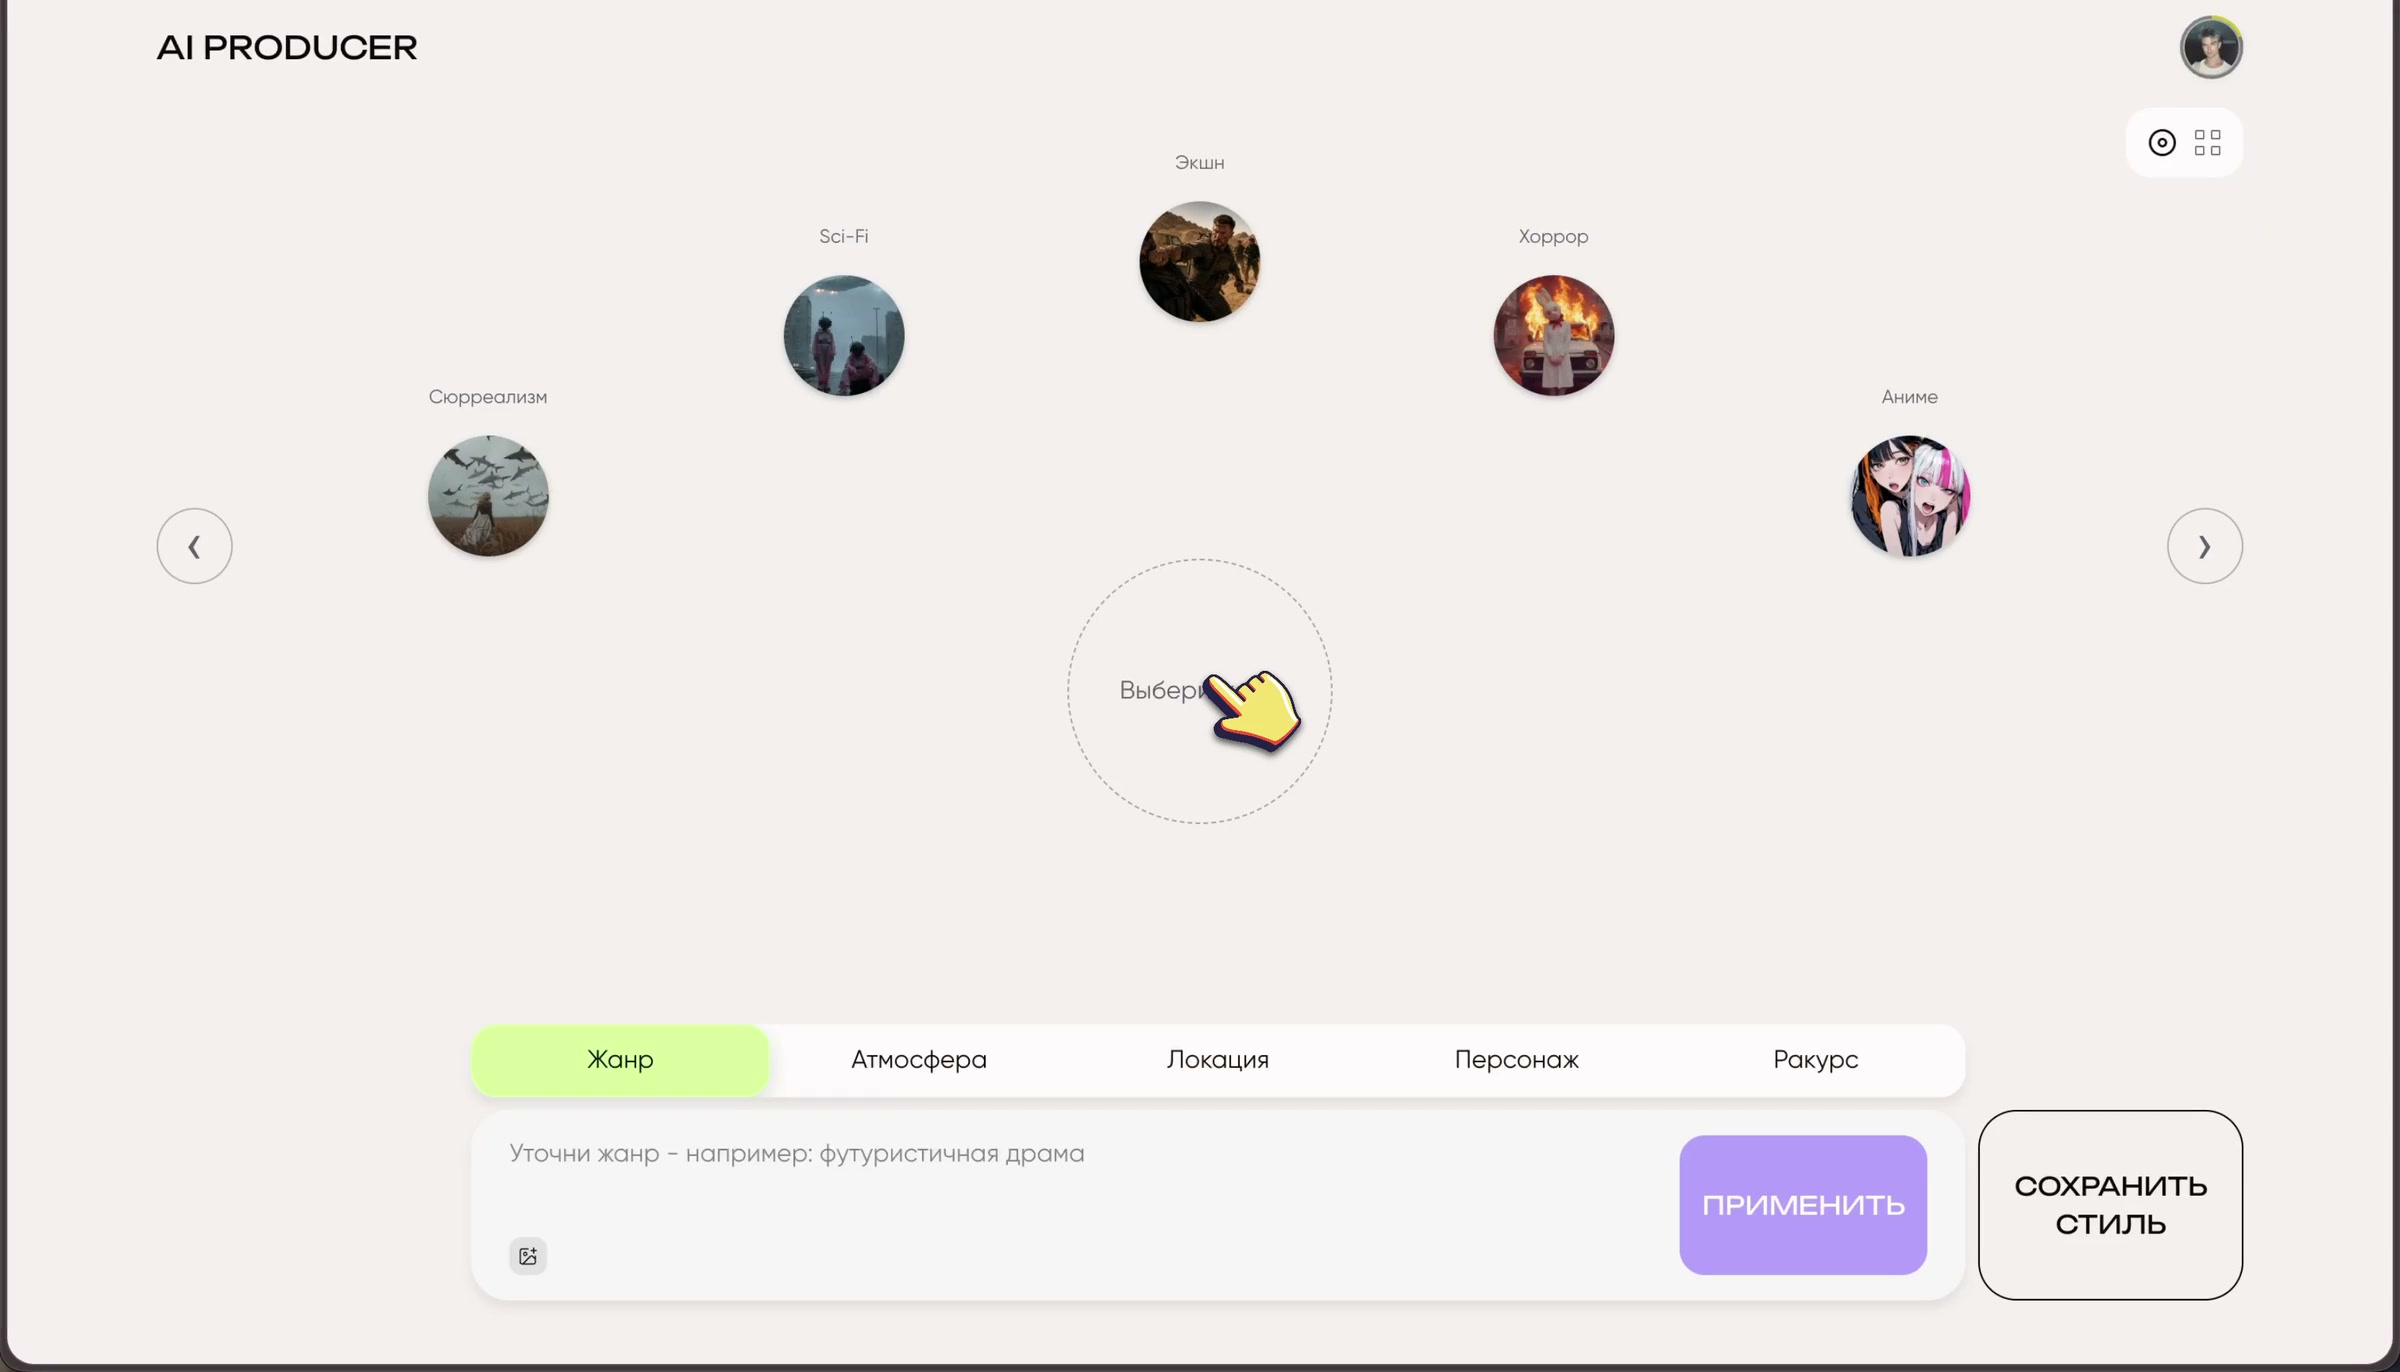
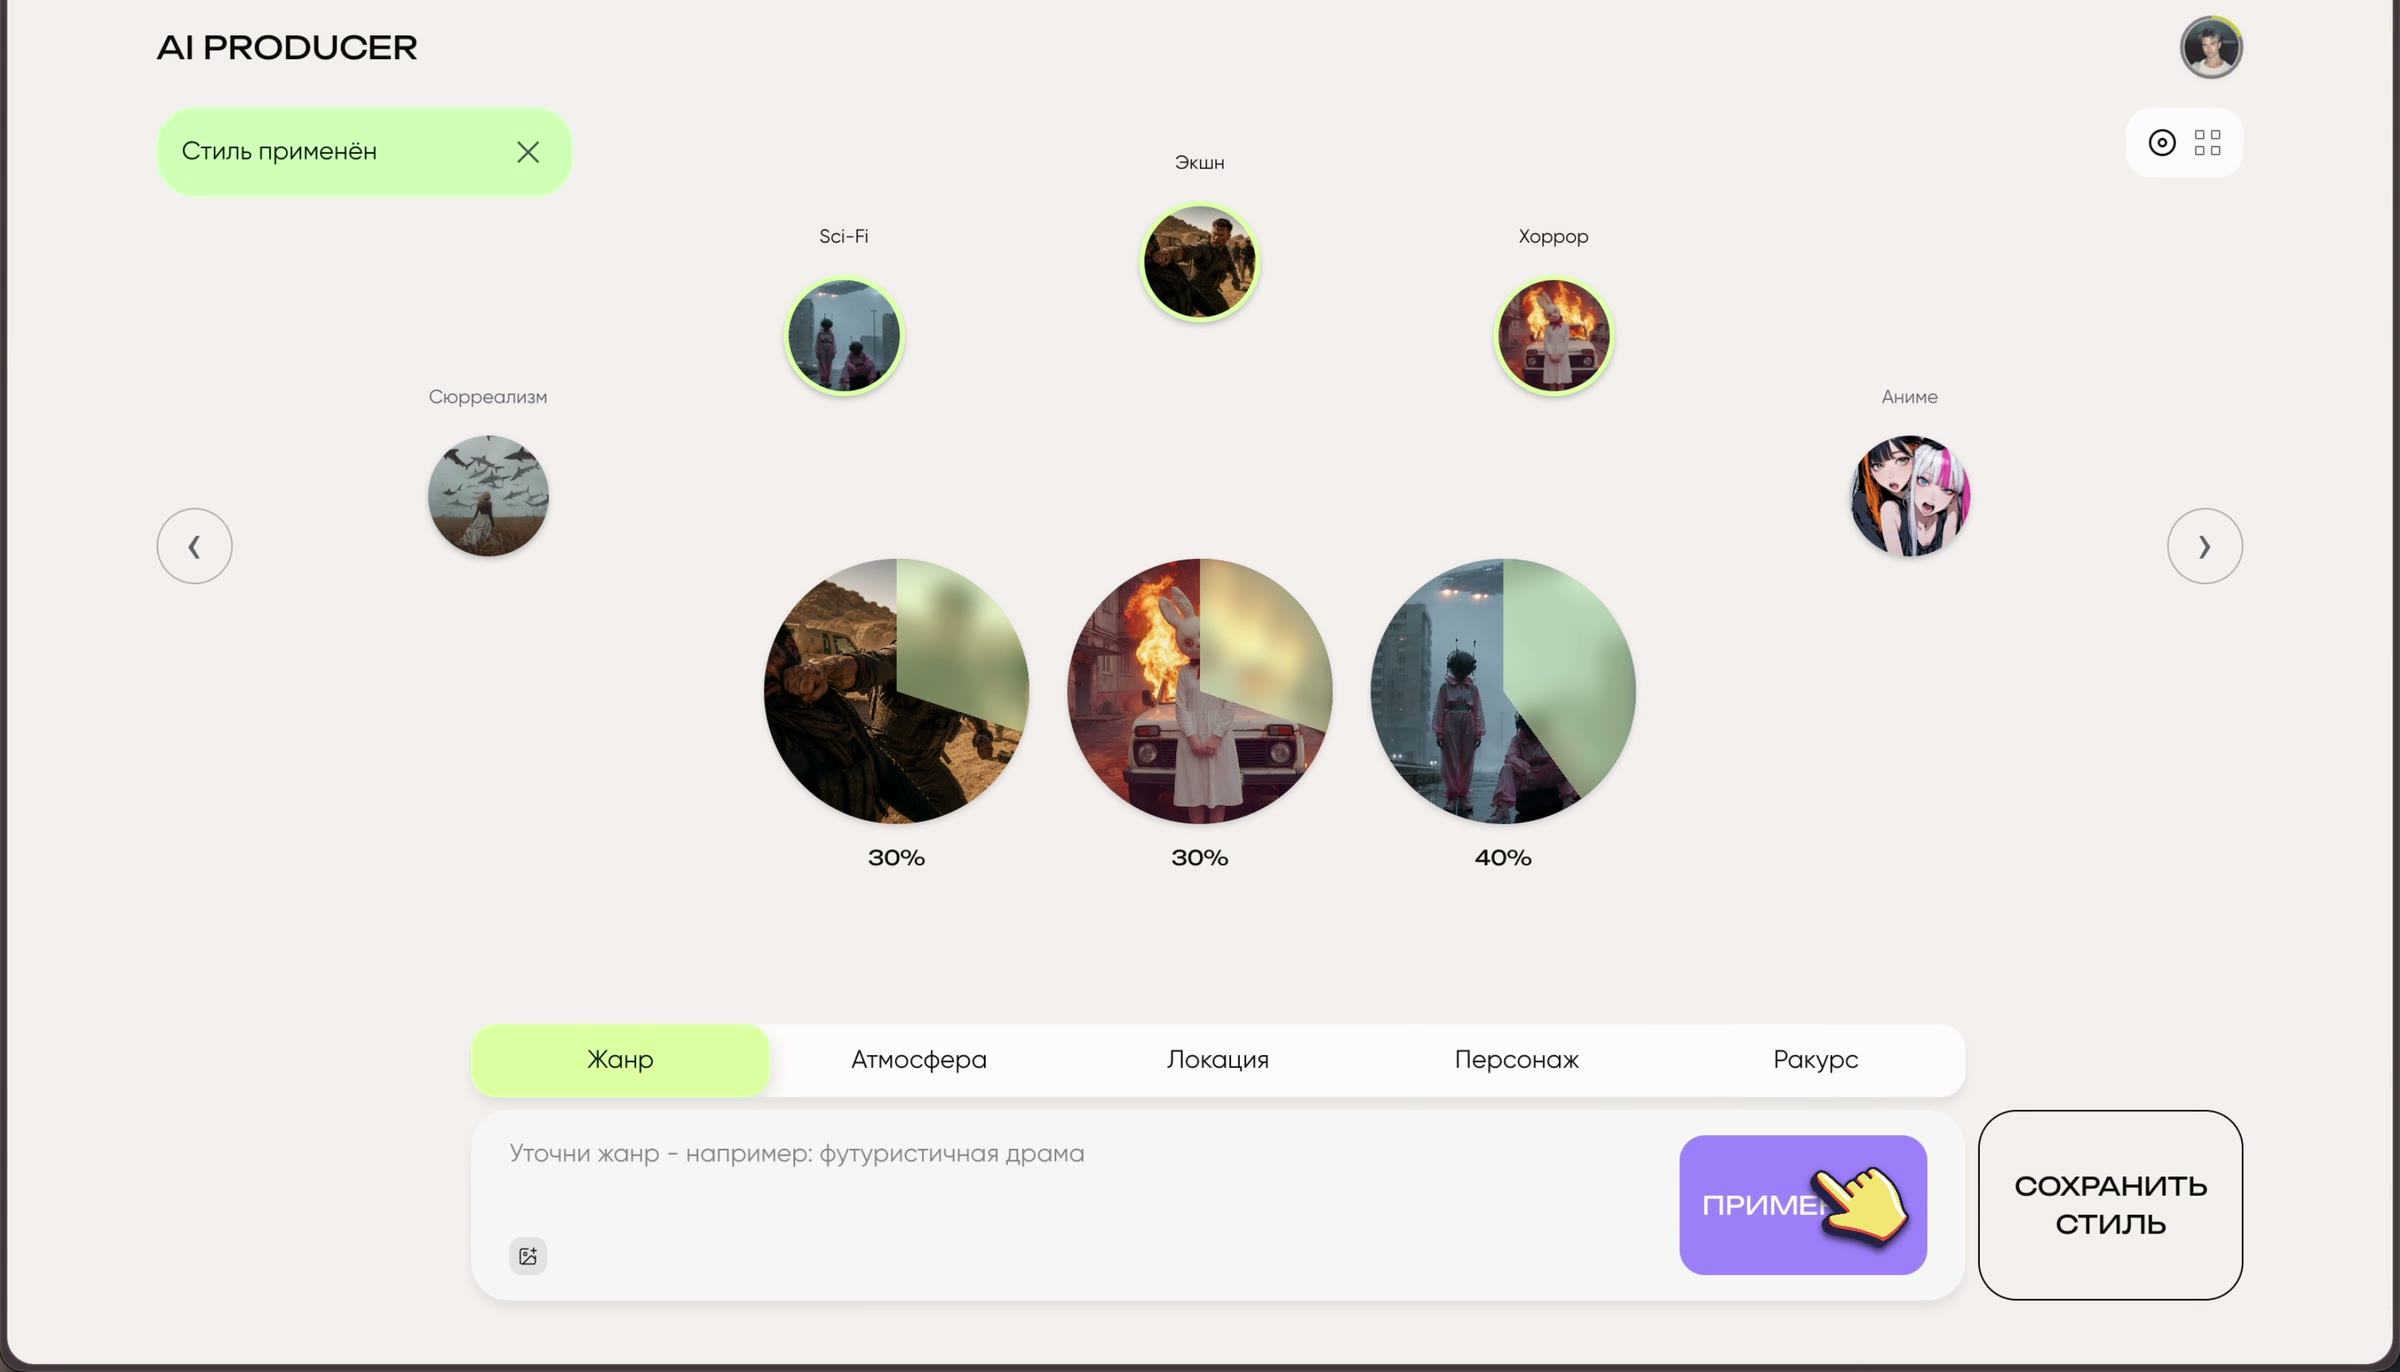
Let the direction section carry its own evidence
The poster showed the empty picker, so the still state never backed the
claim about weights; it is now the frame where the references are chosen
and weighted. The example in the note quoted 35/40/25, numbers the
animation never shows — it ends on 30/30/40. The lead stops paraphrasing
the heading and says what the screen does with a style once it is built.

diff --git a/ai-producer.html b/ai-producer.html
@@ -124,7 +124,7 @@
     <section class="ai-depth ai-direction" id="design-decisions" aria-labelledby="direction-title">
       <p class="ai-case-kicker">ВИЗУАЛЬНОЕ НАПРАВЛЕНИЕ</p>
       <h2 id="direction-title">Задать стиль до генерации</h2>
-      <p class="depth-lead">От жанра и атмосферы до персонажа и ракурса — собрать<span class="ai-desktop-break"><br /></span> направление сцены из визуальных референсов</p>
+      <p class="depth-lead">Пять параметров собираются в один стиль:<span class="ai-desktop-break"><br /></span> его применяют к сцене и сохраняют, чтобы не пересобирать заново</p>
       <div class="ai-case-browser ai-case-browser--hero" data-node-id="1209:4504" aria-label="AI Producer: рабочее пространство">
         <div class="ai-case-browser-content ai-case-browser-content--media">
           <img class="ai-case-browser-base" src="assets/cases/ai-producer/hero-browser@2x.png" alt="" loading="lazy" />
@@ -135,7 +135,7 @@
       </div>
       <div class="depth-notes depth-notes--pair">
         <article><span>ПАРАМЕТРЫ СЦЕНЫ</span><h3>Настроить по отдельности</h3><p>Жанр, атмосфера, локация, персонаж и ракурс разделены. Выбор референсов можно дополнить текстовым уточнением</p></article>
-        <article><span>ВЕСА РЕФЕРЕНСОВ</span><h3>Задать соотношение</h3><p>Проценты показывают заданные веса выбранных референсов: например, 35% тревоги, 40% холодного неона и 25% городского тумана</p></article>
+        <article><span>ВЕСА РЕФЕРЕНСОВ</span><h3>Задать вес каждого референса</h3><p>Проценты показывают заданные веса выбранных референсов: например, 30% sci-fi, 30% экшена и 40% хоррора</p></article>
       </div>
       <p class="depth-footnote">В кейсе показан интерактивный прототип. Точность влияния весов и сохранение остальных деталей при генерации требуют отдельной проверки на AI-модели.</p>
     </section>
